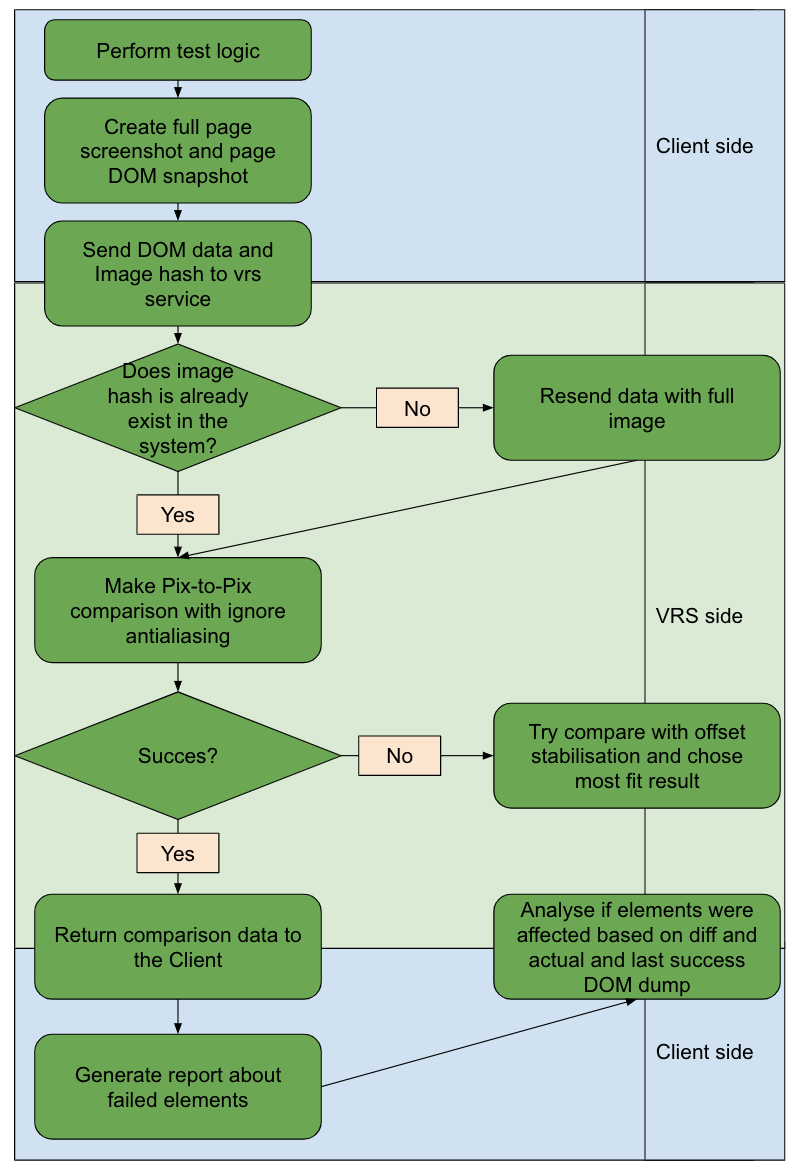
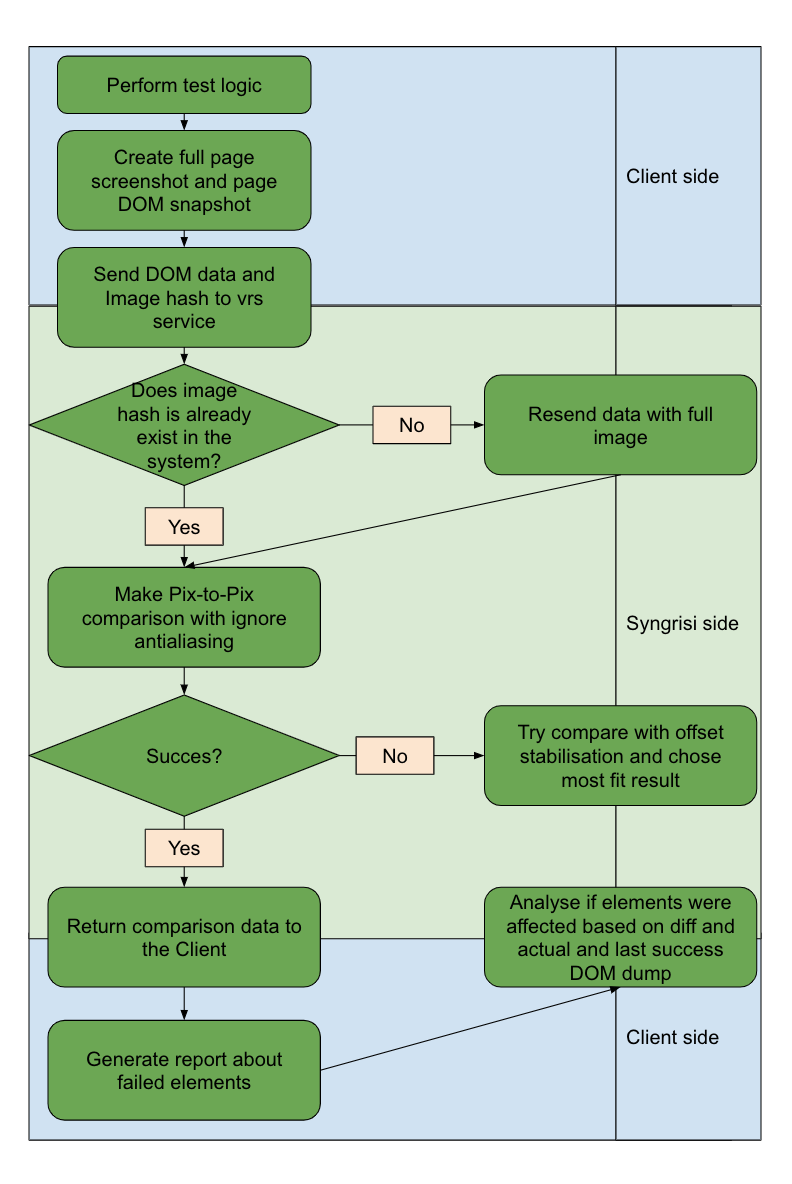
add app to check identity< update documentation

diff --git a/mvc/controllers/api/api_controller.js b/mvc/controllers/api/api_controller.js
@@ -460,10 +460,11 @@ exports.create_check = async function (req, res) {
                     os: req.body.os,
                     updatedDate: Date.now(),
                     suite: suite.id,
-                    appname: (await orm.createAppIfNotExist({name: req.body.appname || 'Unknown'})).id,
+                    app: (await orm.createAppIfNotExist({name: req.body.appName || 'Unknown'})).id,
                     domDump: req.body.domdump,
                     run: test.run
                 }
+
                 const fileData = req.files ? req.files.file.data : false
                 /**
                  * Usually there is two stage of checking request:
@@ -493,12 +494,13 @@ exports.create_check = async function (req, res) {
                 }
                 let currentSnapshot, baselineSnapshoot, actualSnapshot
 
-                // check MUST be identified by Name, OS, Browser, Viewport
+                // check MUST be identified by Name, OS, Browser, Viewport, App
                 const checkIdentifier = {
                     name: params.name,
                     os: params.os,
                     browserName: params.browserName,
                     viewport: params.viewport,
+                    app: params.app,
                 };
                 const lastSuccessCheck = await getLastSuccessCheck(checkIdentifier);
                 handleBaseline:{

diff --git a/lib/upload.js b/lib/upload.js
@@ -7,7 +7,7 @@ const uploadBaseline = async function (filepath, url = 'http://vrs:3000/', name 
     return new Promise(async function (resolve, reject) {
         // const path = `../${config.defaultBaselinePath}${filepath}`;
         const form = new FormData();
-        form.append('appname', 'TestApplication');
+        form.append('appName', 'TestApplication');
         form.append('suitename', 'SuiteName03');
         form.append('testname', 'TestName03');
         form.append('name', 'CheckName03');

diff --git a/README.md b/README.md
@@ -29,6 +29,8 @@ npm run startdebug
 
 ![concept](img/concept.png)
 
+More descriptive flow (with DOM part) see [here](img/flow.png) 
+
 ### Features
 
 * Pix-to-pix comparison
